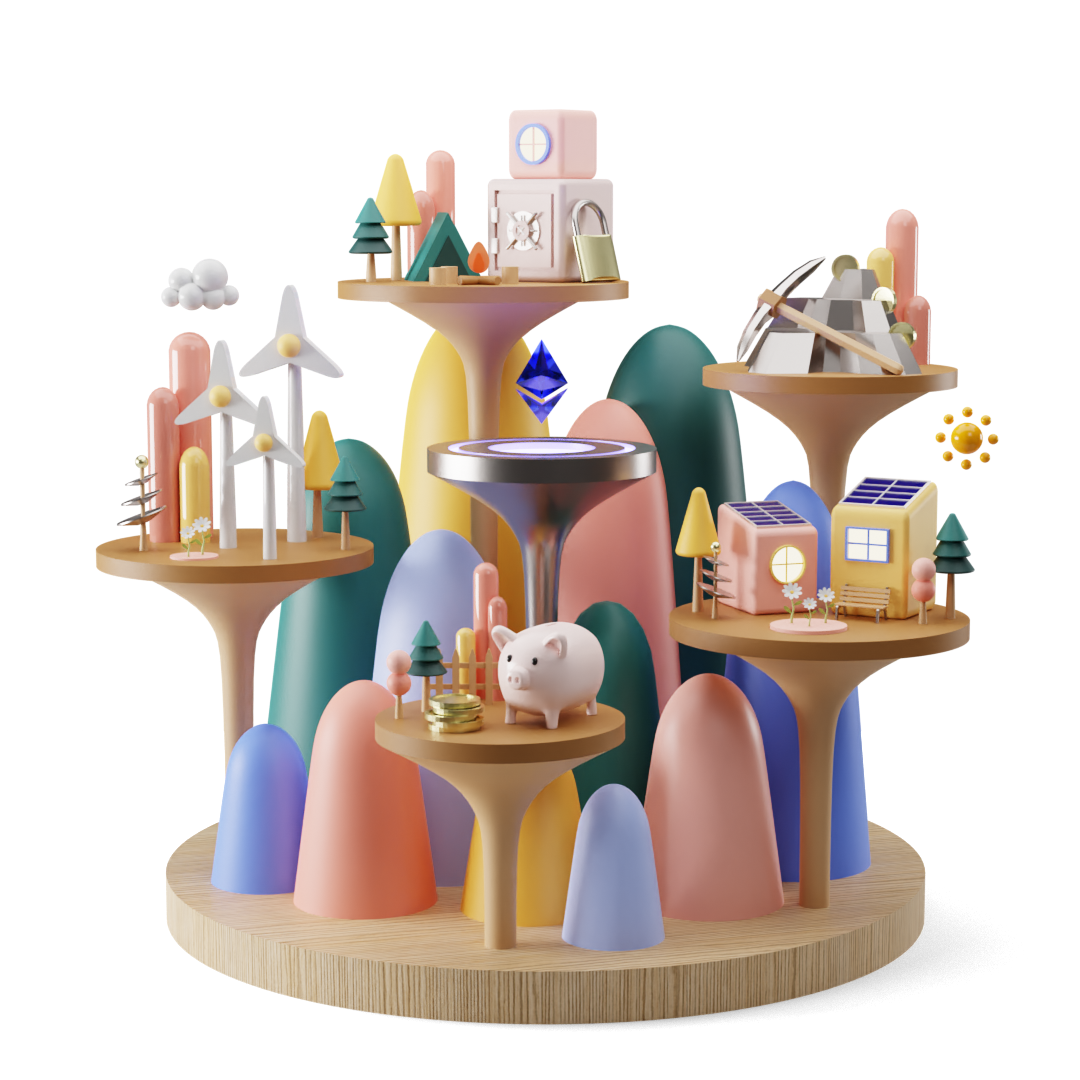
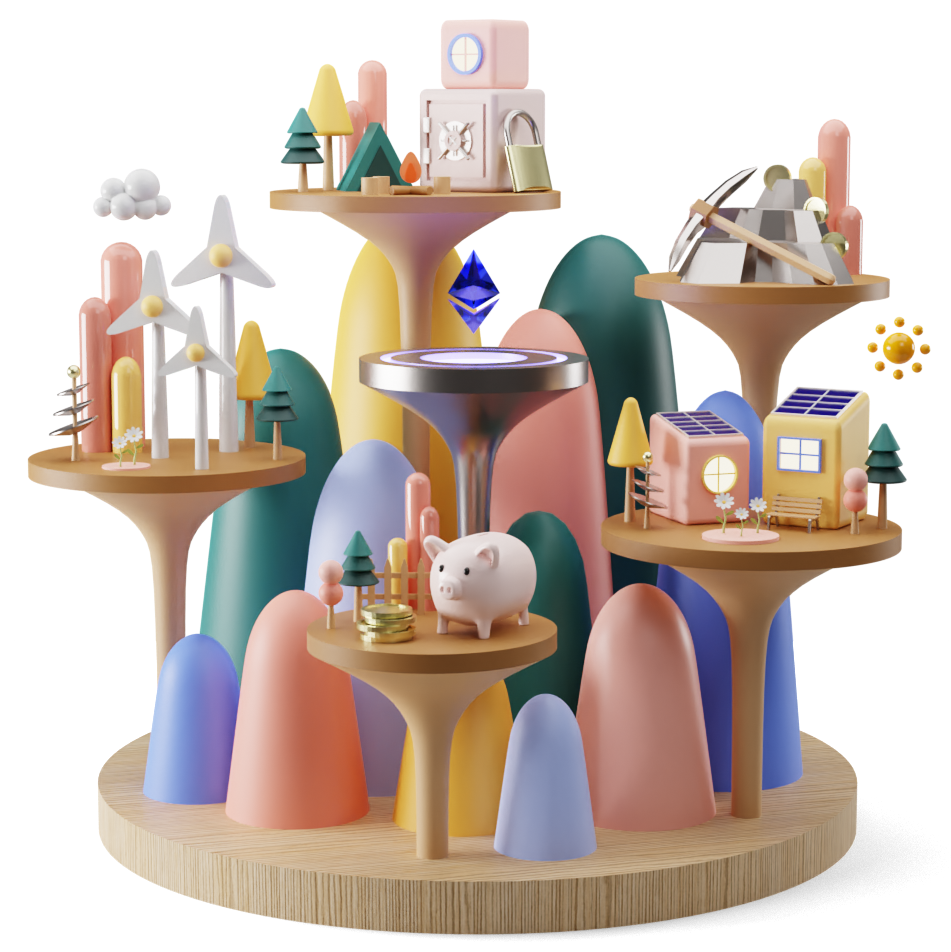
5th commit

diff --git a/index.html b/index.html
@@ -51,16 +51,16 @@
         </nav>
 
         <!--Full-width welcome header page aka "jumbotron"-->
-        <section class="jumbotron jumbotron-fluid">
-            <div class="container-fluid short-margin">
+        <section class="jumbotron">
+            <div class="container short-margin">
                 <div class="row">
                     <div class="col-lg-5 my-auto text-center text-lg-left">
                         <h1>Jump into the world of AI</h1>
                         <p>Expert blockchain solutions to meet your every need.</p>
                         <a class="btn btn-primary btn-lg" href="#" role="button">Contact us</a>
                     </div>
-                    <div class="col-lg-7">
-                        <img src="resources/images/jumbotron/hero-image-2.png" class="img-fluid" alt="hero image">
+                    <div class="col-lg-7 hero-image">
+                        <img src="resources/images/jumbotron/hero-image-3.png" class="img-fluid" alt="hero image">
                     </div>
                 </div>
             </div>
@@ -72,7 +72,7 @@
                 <div class="col-lg-5 my-auto text-center text-lg-left">
                     <div class="margin-b">
                         <h2>The AI future starts with us</h2>
-                        <p>Founded in 2014, AIForceOne is one of the top leading companies in the Blockchain space.</p>
+                        <p>Founded in 2014, AIForceOne is one of the top leading companies in the blockchain space.</p>
                     </div>
                     <div>
                         <h2>Let us tackle the challenges</h2>
@@ -141,14 +141,14 @@
             <div class="row">
                 <div class="col-lg-9">
                     <div class="card">
-                        <div class="row card-body analytics-consulting flex-column-reverse flex-lg-row">
+                        <div class="row card-body it-consulting flex-column-reverse flex-lg-row">
                             <div class="col-lg-5 my-auto it-text text-center text-lg-left">
                                 <h2>IT Consulting</h2>
                                 <p class="p-bold-sm">Solutions for any IT-related challenges</p>
                                 <p>We design IT infrastructure using innovative strategies to plan and budget your needs.</p>
                             </div>
-                            <div class="col-lg-7">
-                            <img src="resources/images/IT/cloud-2.png" class="img-fluid" alt="cloud">
+                            <div class="col-lg-7 text-center">
+                            <img src="resources/images/IT/cloud-2.png" class="img-fluid fixed-width" alt="cloud">
                             </div>
                         </div>
                     </div>
@@ -160,14 +160,14 @@
             <div class="row justify-content-end">
                 <div class="col-lg-9">
                     <div class="card">
-                        <div class="row card-body analytics-consulting flex-column-reverse flex-lg-row">
+                        <div class="row card-body it-consulting flex-column-reverse flex-lg-row">
                             <div class="col-lg-5 my-auto it-text text-center text-lg-left">
                                 <h2>Analytics Consulting</h2>
                                 <p class="p-bold-sm">Big Data, Power BI, and more</p>
                                 <p>We analyze the full life cycle of a project and develop innovative business solutions to exceed expectations.</p>
                             </div>
-                            <div class="col-lg-7">
-                                <img src="resources/images/IT/data-2.png" class="img-fluid" alt="data graph">
+                            <div class="col-lg-7 text-center">
+                                <img src="resources/images/IT/data-2.png" class="img-fluid fixed-width" alt="data graph">
                             </div>
                         </div>
                     </div>
@@ -184,8 +184,8 @@
                     <p class="p-bold-sm">Quick response to incoming issues</p>
                     <p>We provide end-to-end solutions for all of your technical needs.</p>
                 </div>
-                <div class="col-lg-6">
-                    <img src="resources/images/customer-service/messages.png" class="img-fluid" alt="chat bubbles">
+                <div class="col-lg-6 text-center">
+                    <img src="resources/images/customer-service/messages-2.png" class="img-fluid fixed-width" alt="chat bubbles">
                 </div>
             </div>
         </section>
@@ -193,8 +193,8 @@
         <!--Safety-->
         <section class="container safety small-container">
             <div class="row">
-                <div class="col-lg-6">
-                    <img src="resources/images/security/safe.png" class="img-fluid" alt="chat bubbles">
+                <div class="col-lg-6 text-center">
+                    <img src="resources/images/security/safe.png" class="img-fluid fixed-width" alt="chat bubbles">
                 </div>
                 <div class="col-lg-6 my-auto shrink-padding-l text-center text-lg-left">
                     <h2>Security is our priority</h2>
@@ -236,18 +236,18 @@
         </section>
 
 
-        <section class="container small-container contact">
+        <section class="container contact">
             <div class="row">
 
                 <div class="col-12 text-center">
                     <h2>We look forward to hearing <br> from you</h2>
                 </div>  
 
-                <div class="col-lg-6">
-                    <img src="resources/images/customer-service/contact.png" class="img-fluid" alt="floating laptop">
+                <div class="col-lg-5 text-center">
+                    <img src="resources/images/customer-service/contact-2.png" class="img-fluid fixed-width" alt="floating laptop">
                 </div>
 
-                <div class="col-lg-6 my-auto">
+                <div class="col-lg-7 my-auto contact-form">
                     <form class="needs-validation" novalidate>
                         <div class="row">
                           <div class="col-md-6 mb-3">

diff --git a/resources/css/style.css b/resources/css/style.css
@@ -61,6 +61,7 @@ p {
     color: #333333;
 }
 
+
 .nav-logo {                               /* To change the size of the logo*/
     max-height: 35px;
     padding: 0;
@@ -99,6 +100,7 @@ p {
 
 .jumbotron {
     background-color: #F9F8F7;
+    margin-bottom: 0;
 }
 /* ----------------------------*/
 /* -------Introduction---------*/
@@ -107,7 +109,6 @@ p {
 .margin-b {
     margin-bottom: 2.5rem;
 }
-
 
 
 
@@ -146,15 +147,15 @@ p {
 }
 
 .card-blue {
-    background-color:#C1D0EE;
+    background-color:#C1D0EE;    
 }
 
 .card-yellow {
-    background-color:#ffedb2;
+    background-color:#ffedb2;      
 }
 
 .card-pink{
-    background-color:#eedbd7;
+    background-color:#eedbd7;      
 }
 
 
@@ -163,17 +164,14 @@ p {
 /* ----------Crypto------------*/
 /* ----------------------------*/
 
-.crypto {
-    margin-top: 120px;
-    margin-bottom: 120px;
-}
+
 
 
 /* ----------------------------*/
 /* -------IT Services----------*/
 /* ----------------------------*/
 
-.it-consulting, .analytics-consulting {
+.it-consulting {
     margin-top: 20px;
     margin-bottom: 20px;
     padding: 2rem;
@@ -181,11 +179,6 @@ p {
 
 
 .it-consulting {
-    background-color: #C1D0EE;
-    border-radius: 15px;
-}
-
-.analytics-consulting {
     background-color: #E6E5E5;
     border-radius: 15px;
 }
@@ -194,10 +187,11 @@ p {
 /* -----Customer Support-------*/
 /* ----------------------------*/
 
-.customer, .safety, .contact {
-    margin-top:140px;
-    margin-bottom: 140px;
+.introduction, .crypto, .customer, .safety, .contact {
+    margin-top:150px;
+    margin-bottom: 150px;
 }
+
 
 
 /* ----------------------------*/
@@ -361,6 +355,14 @@ p {
 .jumbotron p {
     padding-right: 150px;
 }
+
+.card-columns .card-clear {         /* To add a margin on the bottom of the card-clear AKA the title of the crypto*/
+    margin-bottom: 80px;
+}
+
+.contact-form {
+    padding-left: 100px;
+}
     
 }
 
@@ -368,15 +370,31 @@ p {
 /* Medium devices (tablets, 768px and up)*/
 @media (min-width: 767.98px) and (max-width: 991.98px) {          
 
-    .card-columns {
-        column-count: 2;
+    .card-columns {                 
+        column-count: 1;
       }
 
 }
 
 @media (max-width: 991.98px) {
     .intro-phone-margin {
-        margin-bottom: 50px;
+        margin-bottom: 40px;
+    }
+
+    .hero-image {
+        margin-top: 40px;
+    }
+
+    .customer .fixed-width,
+    .safety .fixed-width {     /* To make the images in "Customer" and "Safety" section not responsive and fixed width instead, so when you shrink the browser, the image doesn't scale up*/
+        height: auto;
+        max-width: 280px;
+    }
+
+    .it-consulting .fixed-width,
+    .contact .fixed-width {     /* To make the images in "IT" section not responsive and fixed width instead, so when you shrink the browser, the image doesn't scale up*/
+        height: auto;
+        max-width: 380px;
     }
 }
 
